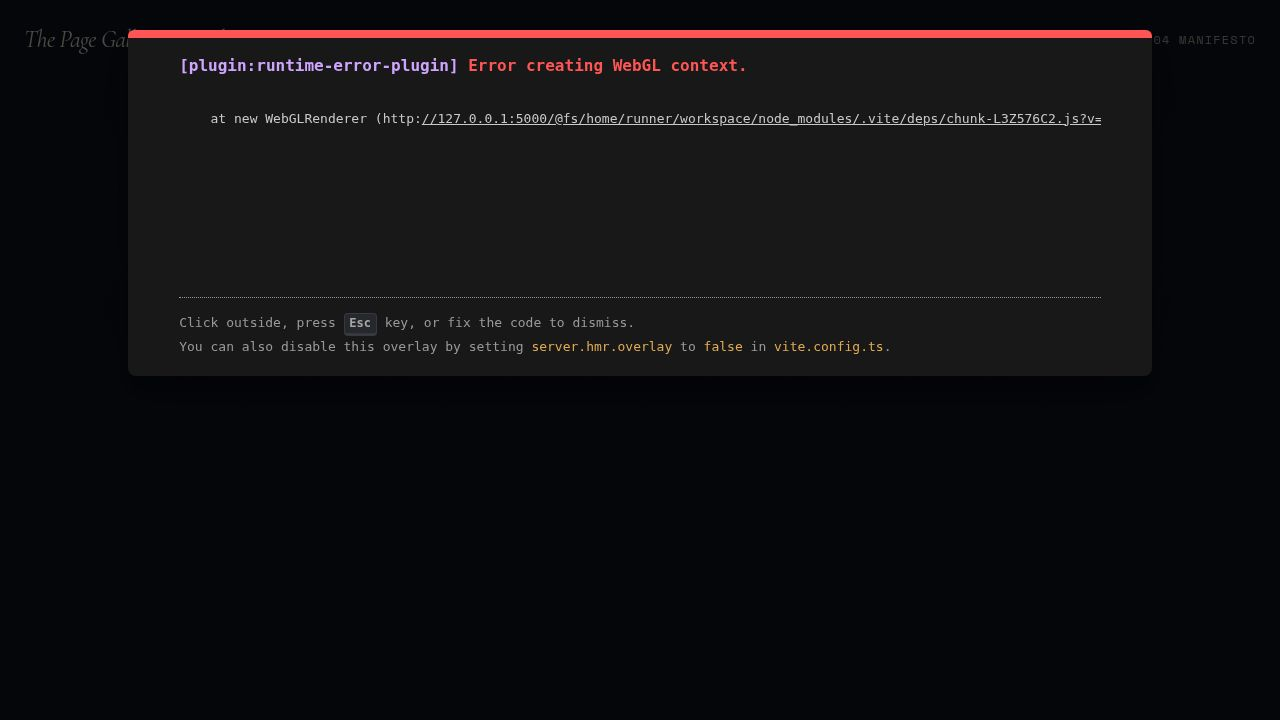
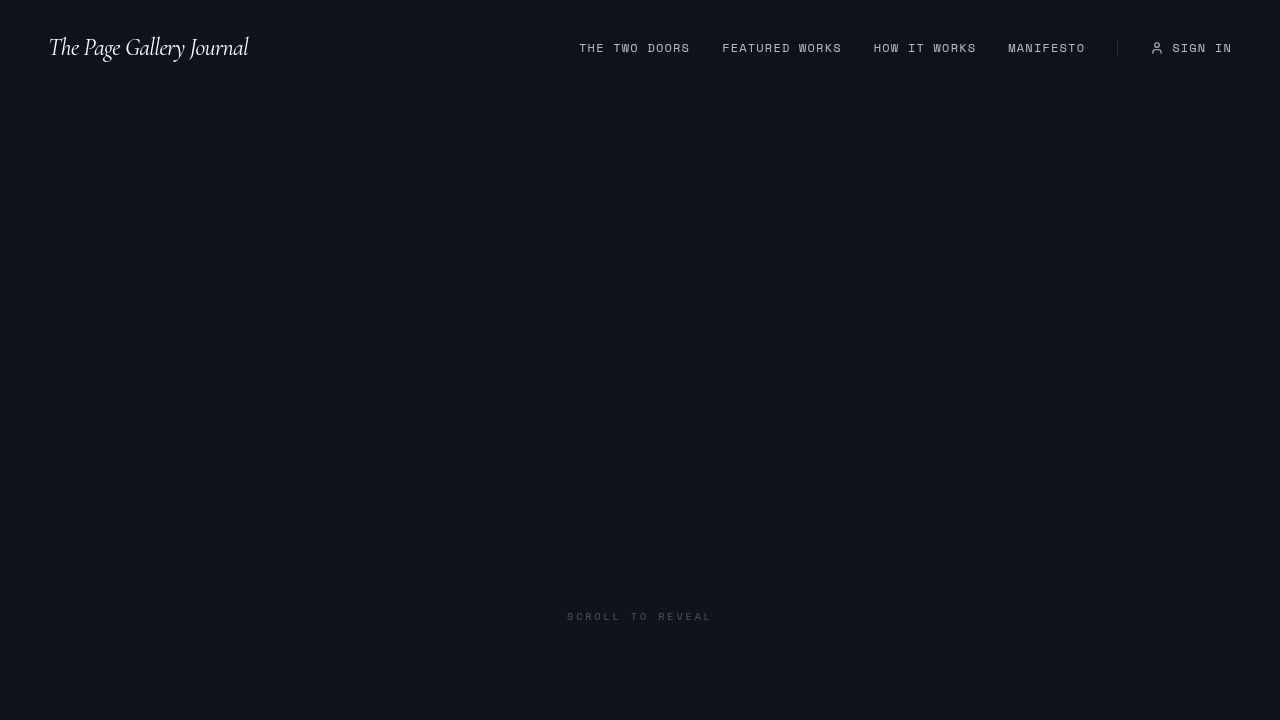
Update animation to show stars forming journal title
Replaces the book animation with a star particle effect that forms the text "THE PAGE GALLERY JOURNAL" using a 2D canvas.

Replit-Commit-Author: Agent
Replit-Commit-Session-Id: 996bfbbd-08db-40bb-bf5a-4bfad42a7215
Replit-Commit-Checkpoint-Type: full_checkpoint
Replit-Commit-Event-Id: 6fe65e53-546a-433b-be8f-5bd51523355e
Replit-Commit-Screenshot-Url: https://storage.googleapis.com/screenshot-production-us-central1/f46a60f2-86bc-410e-af69-29c0cbdde59c/996bfbbd-08db-40bb-bf5a-4bfad42a7215/KA4zAi2
Replit-Helium-Checkpoint-Created: true

diff --git a/client/src/components/BookAnimation.tsx b/client/src/components/BookAnimation.tsx
@@ -1,170 +1,209 @@
-import { motion, useScroll, useTransform, useSpring, useMotionTemplate } from "framer-motion";
-import { useRef } from "react";
+import { useRef, useEffect, useCallback, useState } from "react";
+import { motion, useScroll, useTransform, useSpring } from "framer-motion";
+
+interface Particle {
+  x: number;
+  y: number;
+  targetX: number;
+  targetY: number;
+  originX: number;
+  originY: number;
+  size: number;
+  opacity: number;
+  twinkleSpeed: number;
+  twinkleOffset: number;
+  delay: number;
+}
+
+function sampleTextPositions(
+  text: string,
+  fontSize: number,
+  canvasWidth: number,
+  canvasHeight: number,
+  lineSpacing: number
+): { x: number; y: number }[] {
+  const canvas = document.createElement("canvas");
+  canvas.width = canvasWidth;
+  canvas.height = canvasHeight;
+  const ctx = canvas.getContext("2d")!;
+
+  ctx.fillStyle = "#000";
+  ctx.fillRect(0, 0, canvasWidth, canvasHeight);
+
+  ctx.font = `300 italic ${fontSize}px "Cormorant Garamond", serif`;
+  ctx.fillStyle = "#fff";
+  ctx.textAlign = "center";
+  ctx.textBaseline = "middle";
+
+  const lines = text.split("\n");
+  const totalHeight = lines.length * lineSpacing;
+  const startY = (canvasHeight - totalHeight) / 2 + lineSpacing / 2;
+
+  lines.forEach((line, i) => {
+    ctx.fillText(line, canvasWidth / 2, startY + i * lineSpacing);
+  });
+
+  const imageData = ctx.getImageData(0, 0, canvasWidth, canvasHeight);
+  const positions: { x: number; y: number }[] = [];
+  const step = 3;
+
+  for (let y = 0; y < canvasHeight; y += step) {
+    for (let x = 0; x < canvasWidth; x += step) {
+      const i = (y * canvasWidth + x) * 4;
+      if (imageData.data[i] > 128) {
+        positions.push({ x, y });
+      }
+    }
+  }
+
+  return positions;
+}
 
 export default function BookAnimation() {
   const containerRef = useRef<HTMLDivElement>(null);
+  const canvasRef = useRef<HTMLCanvasElement>(null);
+  const particlesRef = useRef<Particle[]>([]);
+  const animFrameRef = useRef<number>(0);
+  const scrollProgressRef = useRef(0);
+  const [ready, setReady] = useState(false);
+
   const { scrollYProgress } = useScroll({
     target: containerRef,
-    offset: ["start start", "end start"]
+    offset: ["start start", "end start"],
   });
 
   const smoothScroll = useSpring(scrollYProgress, { stiffness: 50, damping: 20 });
+  const scrollIndicatorOpacity = useTransform(smoothScroll, [0, 0.1], [1, 0]);
 
-  const bookY = useTransform(smoothScroll, [0, 0.2], [0, 50]);
-  const bookScale = useTransform(smoothScroll, [0, 0.4], [0.8, 1.2]);
-  
-  const opacityClosed = useTransform(smoothScroll, [0.25, 0.35], [1, 0]);
-  const opacityOpen = useTransform(smoothScroll, [0.25, 0.35], [0, 1]);
-  const openBookScale = useTransform(smoothScroll, [0.3, 0.6], [0.8, 1]);
-  
-  const textOpacity = useTransform(smoothScroll, [0.5, 0.7], [0, 1]);
-  const textY = useTransform(smoothScroll, [0.5, 0.7], [20, 0]);
-  const textBlur = useTransform(smoothScroll, [0.5, 0.7], ["10px", "0px"]);
-  const textFilter = useMotionTemplate`blur(${textBlur})`;
+  useEffect(() => {
+    const unsubscribe = smoothScroll.on("change", (v) => {
+      scrollProgressRef.current = v;
+    });
+    return unsubscribe;
+  }, [smoothScroll]);
 
-  // --- SVG PATHS ---
-  // A vertical closed book
-  const closedBookPath = `
-    M 220 100 
-    L 280 100 
-    Q 290 100 290 110 
-    L 290 390 
-    Q 290 400 280 400 
-    L 220 400 
-    Q 210 400 210 390 
-    L 210 110 
-    Q 210 100 220 100 Z
-    M 230 100 L 230 400
-  `; // Spine detail
+  const initParticles = useCallback(() => {
+    const canvas = canvasRef.current;
+    if (!canvas) return;
 
-  // An open book (two pages)
-  const openBookPathLeft = `
-    M 250 400 
-    Q 150 420 50 380 
-    L 50 120 
-    Q 150 160 250 140 
-    Z
-  `;
-  const openBookPathRight = `
-    M 250 400 
-    Q 350 420 450 380 
-    L 450 120 
-    Q 350 160 250 140 
-    Z
-  `;
-  const spineOpen = `M 250 140 L 250 400`;
+    const dpr = window.devicePixelRatio || 1;
+    const rect = canvas.getBoundingClientRect();
+    canvas.width = rect.width * dpr;
+    canvas.height = rect.height * dpr;
 
-  // "Inky" Lines (Lines of text on the page)
-  const textLinesLeft = [
-    "M 70 180 Q 150 200 230 190",
-    "M 70 210 Q 150 230 230 220",
-    "M 70 240 Q 150 260 230 250",
-    "M 70 270 Q 150 290 180 280"
-  ];
-  const textLinesRight = [
-    "M 270 190 Q 350 210 430 180",
-    "M 270 220 Q 350 240 430 210",
-    "M 270 250 Q 350 270 430 240",
-    "M 270 280 Q 350 300 380 270"
-  ];
+    const sampleW = Math.floor(rect.width * 0.8);
+    const sampleH = Math.floor(rect.height * 0.6);
+    const fontSize = Math.min(Math.floor(rect.width / 8), 120);
+    const lineSpacing = fontSize * 1.3;
+
+    const positions = sampleTextPositions(
+      "THE PAGE\nGALLERY\nJOURNAL",
+      fontSize,
+      sampleW,
+      sampleH,
+      lineSpacing
+    );
+
+    const offsetX = (rect.width - sampleW) / 2;
+    const offsetY = (rect.height - sampleH) / 2;
+
+    const particles: Particle[] = positions.map((pos, i) => {
+      const angle = Math.random() * Math.PI * 2;
+      const dist = 300 + Math.random() * 600;
+      const originX = rect.width / 2 + Math.cos(angle) * dist;
+      const originY = rect.height / 2 + Math.sin(angle) * dist;
+
+      return {
+        x: originX,
+        y: originY,
+        targetX: pos.x + offsetX,
+        targetY: pos.y + offsetY,
+        originX,
+        originY,
+        size: 0.8 + Math.random() * 1.8,
+        opacity: 0.3 + Math.random() * 0.7,
+        twinkleSpeed: 1 + Math.random() * 3,
+        twinkleOffset: Math.random() * Math.PI * 2,
+        delay: Math.random() * 0.3,
+      };
+    });
+
+    particlesRef.current = particles;
+    setReady(true);
+  }, []);
+
+  useEffect(() => {
+    const timer = setTimeout(initParticles, 100);
+    window.addEventListener("resize", initParticles);
+    return () => {
+      clearTimeout(timer);
+      window.removeEventListener("resize", initParticles);
+    };
+  }, [initParticles]);
+
+  useEffect(() => {
+    if (!ready) return;
+
+    const canvas = canvasRef.current;
+    if (!canvas) return;
+    const ctx = canvas.getContext("2d")!;
+    const dpr = window.devicePixelRatio || 1;
+
+    const draw = () => {
+      const w = canvas.width;
+      const h = canvas.height;
+      ctx.clearRect(0, 0, w, h);
+
+      const progress = scrollProgressRef.current;
+      const formProgress = Math.max(0, Math.min(1, (progress - 0.05) / 0.5));
+      const time = performance.now() / 1000;
+
+      particlesRef.current.forEach((p) => {
+        const delayed = Math.max(0, Math.min(1, (formProgress - p.delay) / (1 - p.delay)));
+        const eased = delayed < 0.5
+          ? 4 * delayed * delayed * delayed
+          : 1 - Math.pow(-2 * delayed + 2, 3) / 2;
+
+        p.x = p.originX + (p.targetX - p.originX) * eased;
+        p.y = p.originY + (p.targetY - p.originY) * eased;
+
+        const twinkle = 0.4 + 0.6 * (0.5 + 0.5 * Math.sin(time * p.twinkleSpeed + p.twinkleOffset));
+        const fadeIn = Math.min(1, formProgress * 3);
+        const alpha = p.opacity * twinkle * fadeIn;
+
+        ctx.beginPath();
+        ctx.arc(p.x * dpr, p.y * dpr, p.size * dpr, 0, Math.PI * 2);
+        ctx.fillStyle = `rgba(237, 233, 227, ${alpha})`;
+        ctx.fill();
+
+        if (p.size > 1.2 && eased > 0.8) {
+          ctx.beginPath();
+          ctx.arc(p.x * dpr, p.y * dpr, p.size * dpr * 2.5, 0, Math.PI * 2);
+          const glowAlpha = alpha * 0.15 * (eased - 0.8) * 5;
+          ctx.fillStyle = `rgba(237, 233, 227, ${glowAlpha})`;
+          ctx.fill();
+        }
+      });
+
+      animFrameRef.current = requestAnimationFrame(draw);
+    };
+
+    animFrameRef.current = requestAnimationFrame(draw);
+    return () => cancelAnimationFrame(animFrameRef.current);
+  }, [ready]);
 
   return (
-    <div ref={containerRef} className="h-[350vh] w-full relative mb-[-50vh]">
+    <div ref={containerRef} className="h-[250vh] w-full relative mb-[-30vh]">
       <div className="sticky top-0 h-screen w-full flex flex-col items-center justify-center overflow-hidden pointer-events-none">
-        
-        {/* Main Book SVG Container */}
-        <motion.div 
-          style={{ y: bookY, scale: bookScale }}
-          className="relative w-[500px] h-[500px] flex items-center justify-center"
+        <canvas
+          ref={canvasRef}
+          className="absolute inset-0 w-full h-full"
+        />
+        <motion.div
+          style={{ opacity: scrollIndicatorOpacity }}
+          className="absolute bottom-24 font-mono text-[10px] tracking-[0.3em] opacity-40 animate-pulse text-white/50"
         >
-          <svg viewBox="0 0 500 500" className="absolute w-full h-full overflow-visible drop-shadow-[0_0_15px_rgba(255,255,255,0.3)]">
-            <defs>
-              <filter id="ink-glow" x="-50%" y="-50%" width="200%" height="200%">
-                <feGaussianBlur stdDeviation="1.5" result="blur" />
-                <feComposite in="SourceGraphic" in2="blur" operator="over" />
-              </filter>
-            </defs>
-
-            {/* --- CLOSED STATE --- */}
-            <motion.g style={{ opacity: opacityClosed }}>
-              <motion.path 
-                d={closedBookPath}
-                fill="transparent"
-                stroke="#ede9e3"
-                strokeWidth="2.5"
-                strokeLinecap="round"
-                strokeLinejoin="round"
-                filter="url(#ink-glow)"
-                strokeDasharray="3 4" // Dashed "starry" look
-                initial={{ pathLength: 0 }}
-                animate={{ pathLength: 1 }}
-                transition={{ duration: 2, ease: "easeInOut" }}
-              />
-              {/* Some decorative "stars" on the cover */}
-              <motion.circle cx="250" cy="200" r="1.5" fill="#fff" animate={{ opacity: [0.4, 1, 0.4] }} transition={{ duration: 3, repeat: Infinity }} />
-              <motion.circle cx="250" cy="250" r="1" fill="#fff" animate={{ opacity: [0.2, 0.8, 0.2] }} transition={{ duration: 2, repeat: Infinity }} />
-              <motion.circle cx="250" cy="300" r="1.5" fill="#fff" animate={{ opacity: [0.4, 1, 0.4] }} transition={{ duration: 4, repeat: Infinity }} />
-            </motion.g>
-
-            {/* --- OPEN STATE --- */}
-            <motion.g style={{ opacity: opacityOpen, scale: openBookScale, originX: 0.5, originY: 0.5 }}>
-              {/* Pages Outline */}
-              <path d={openBookPathLeft} fill="transparent" stroke="#ede9e3" strokeWidth="2" filter="url(#ink-glow)" strokeDasharray="500" strokeDashoffset="0" />
-              <path d={openBookPathRight} fill="transparent" stroke="#ede9e3" strokeWidth="2" filter="url(#ink-glow)" strokeDasharray="500" strokeDashoffset="0" />
-              <path d={spineOpen} fill="transparent" stroke="#ede9e3" strokeWidth="2" filter="url(#ink-glow)" strokeDasharray="2 4" />
-
-              {/* Emerging Text Lines (Scribbles) */}
-              {textLinesLeft.map((d, i) => (
-                <motion.path 
-                  key={`l-${i}`} 
-                  d={d} 
-                  fill="transparent" 
-                  stroke="#ede9e3" 
-                  strokeWidth="1.5" 
-                  strokeDasharray="2 4" 
-                  opacity="0.4"
-                  initial={{ pathLength: 0 }}
-                  whileInView={{ pathLength: 1 }}
-                  transition={{ delay: 0.5 + (i * 0.1), duration: 1 }}
-                />
-              ))}
-              {textLinesRight.map((d, i) => (
-                <motion.path 
-                  key={`r-${i}`} 
-                  d={d} 
-                  fill="transparent" 
-                  stroke="#ede9e3" 
-                  strokeWidth="1.5" 
-                  strokeDasharray="2 4" 
-                  opacity="0.4"
-                  initial={{ pathLength: 0 }}
-                  whileInView={{ pathLength: 1 }}
-                  transition={{ delay: 0.8 + (i * 0.1), duration: 1 }}
-                />
-              ))}
-              
-              {/* Magic Particles emitting from center */}
-              <motion.circle cx="250" cy="250" r="30" fill="transparent" stroke="#fff" strokeWidth="0.5" opacity="0.1" animate={{ scale: [0.8, 1.5], opacity: [0.1, 0] }} transition={{ duration: 2, repeat: Infinity }} />
-            </motion.g>
-          </svg>
-
-          {/* THE TITLE REVEAL */}
-          <motion.div 
-            style={{ opacity: textOpacity, y: textY, filter: textFilter }}
-            className="absolute top-1/2 left-1/2 -translate-x-1/2 -translate-y-1/2 text-center w-[800px]"
-          >
-            <h1 className="font-display text-6xl md:text-8xl tracking-widest text-white mix-blend-overlay drop-shadow-[0_0_30px_rgba(255,255,255,0.6)]">
-              THE PAGE<br/>GALLERY
-            </h1>
-          </motion.div>
-        </motion.div>
-
-        {/* Scroll Indicator */}
-        <motion.div 
-          style={{ opacity: useTransform(smoothScroll, [0, 0.1], [1, 0]) }}
-          className="absolute bottom-24 font-mono text-[10px] tracking-[0.3em] opacity-40 animate-pulse"
-        >
-          SCROLL TO OPEN
+          SCROLL TO REVEAL
         </motion.div>
       </div>
     </div>
